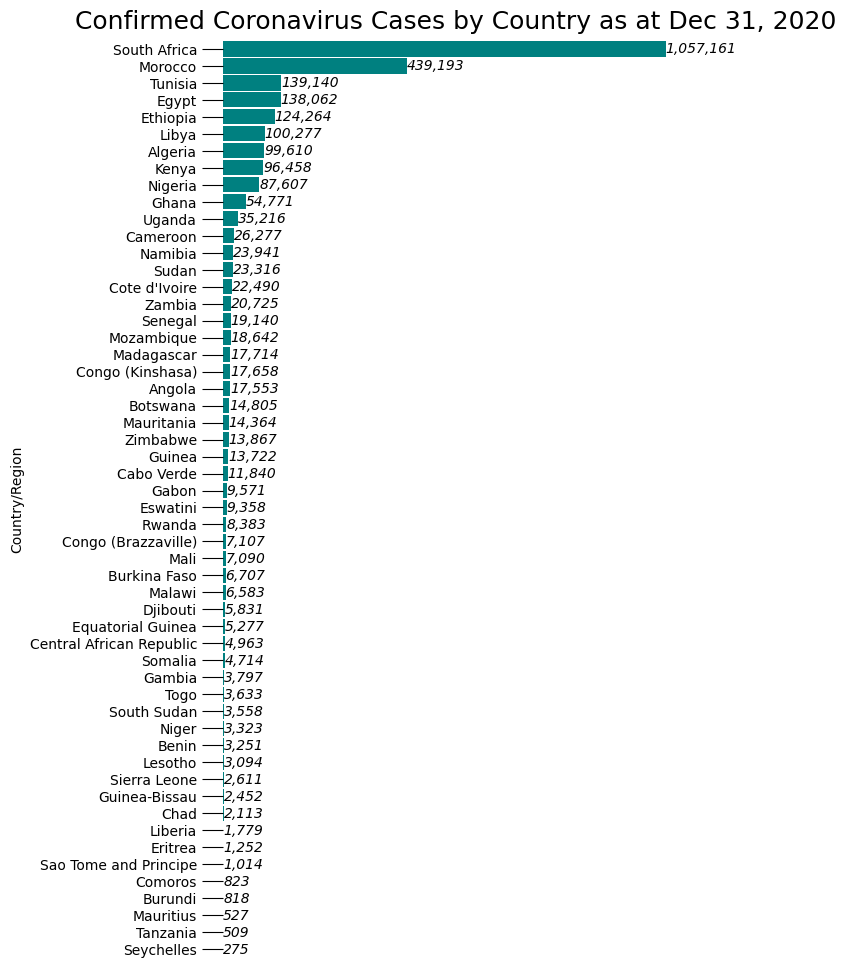
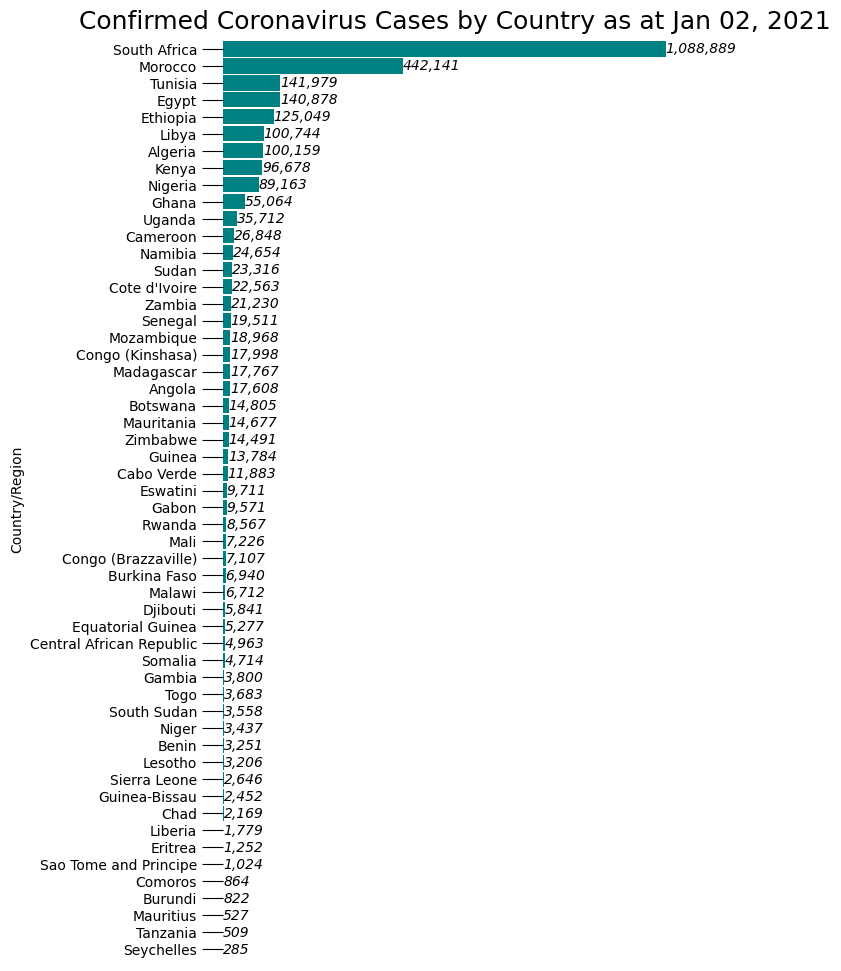
Update download scripts
Bug fix: daily files for 2021 weren't being saved since `date.max()` resolved to 12-31-2020 instead of 01-DD-2021.
Increase marker-size in geo-scatterplot.

Changed region(s): [[0.0618, 0.0, 0.9893, 0.9887], [0.4637, 0.0618, 0.5565, 0.0927]]

diff --git a/scripts/african_cases_full.py b/scripts/african_cases_full.py
@@ -1,6 +1,7 @@
 import pandas as pd
 import utils
 
+
 base_url = """https://raw.githubusercontent.com/CSSEGISandData/COVID-19/\
 master/csse_covid_19_data/csse_covid_19_time_series/time_series_covid19_"""
 
@@ -12,7 +13,8 @@ url_dict = {
 
 
 def fetch_data(label, url):
-    """Fetch data from the John Hopkins API.
+    """Fetch data from the Johns Hopkins University 'CSSEGISandData/COVID-19'
+    repository.
 
     Parameters:
     ----------
@@ -31,7 +33,7 @@ def fetch_data(label, url):
 
     # Select data for African countries
     africa_df = global_cases[global_cases['Country/Region'].isin(utils.Africa)]
-    africa_df = africa_df.set_index('Country/Region')
+    africa_df.set_index('Country/Region', inplace=True)
 
     # Create a pivot table with date & country as a MultiIndex, and the data
     # as a series.
@@ -58,24 +60,26 @@ def compile_africa_data(url_dict):
     # Package the data as per the format in the archives
     africa_historic = pd.DataFrame({
         'Country/Region': combined['Country/Region'],
-        'Date': pd.to_datetime(combined['level_0']).dt.strftime('%m-%d-%Y'),
+        'Date': pd.to_datetime(combined['level_0']),
         'Confirmed': combined['Confirmed'],
         'Deaths': combined['Deaths'],
         'Recovered': combined['Recovered']
     })
 
     # Sort by Date (descending) and Country (ascending), and save
-    africa_historic = africa_historic.sort_values(
-        by=['Date', 'Country/Region'], ascending=[False, True])
+    africa_historic.sort_values(by=['Date', 'Country/Region'],
+                                ascending=[False, True],
+                                inplace=True)
+    africa_historic['Date'] = africa_historic['Date'].dt.strftime('%m-%d-%Y')
     africa_historic.to_csv('./datasets/africa_historic_data.csv', index=False)
 
     # Extract data for the latest date.
-    dates = africa_historic['Date']
-    africa_daily = africa_historic[dates == dates.max()]
+    latest_date = africa_historic['Date'].iloc[0]
+    africa_daily = africa_historic[africa_historic['Date'] == latest_date]
 
     # Sort in descending order of confirmed cases, and save.
     africa_daily = africa_daily.sort_values(by='Confirmed', ascending=False)
-    filename = f'./datasets/daily/{dates.max()}_c19_african_cases.csv'
+    filename = f'./datasets/daily/{latest_date}_c19_african_cases.csv'
     africa_daily.to_csv(filename, index=False)
 
     # Fetch location data for use in geographical plots

diff --git a/scripts/utils.py b/scripts/utils.py
@@ -66,6 +66,7 @@ def plot_africa_totals(data, colors=['blue', 'orangered', 'lawngreen']):
 
     # Show y-axis ticks as full plain text, instead of in scientific notation
     ax.ticklabel_format(axis='y', style='plain')
+    ax.yaxis.set_major_formatter(lambda x, p: f'{x:,.0f}')  # comma separation
 
     # Set the x-axis to show dates in 2-week intervals
     ax.xaxis.set_major_locator(mdates.WeekdayLocator(interval=2))
@@ -121,7 +122,7 @@ def plot_geoscatter(geo_data):
     """
     fig = px.scatter_geo(
         geo_data, lat='Lat', lon='Long', scope='africa', size='Confirmed',
-        color='Confirmed', height=600, width=600,
+        color='Confirmed', height=600, width=600, size_max=50,
         color_continuous_scale=['cyan', 'yellow', 'orangered'],
         title='Geographic Scatter-plot of Confirmed Cases'
     )
